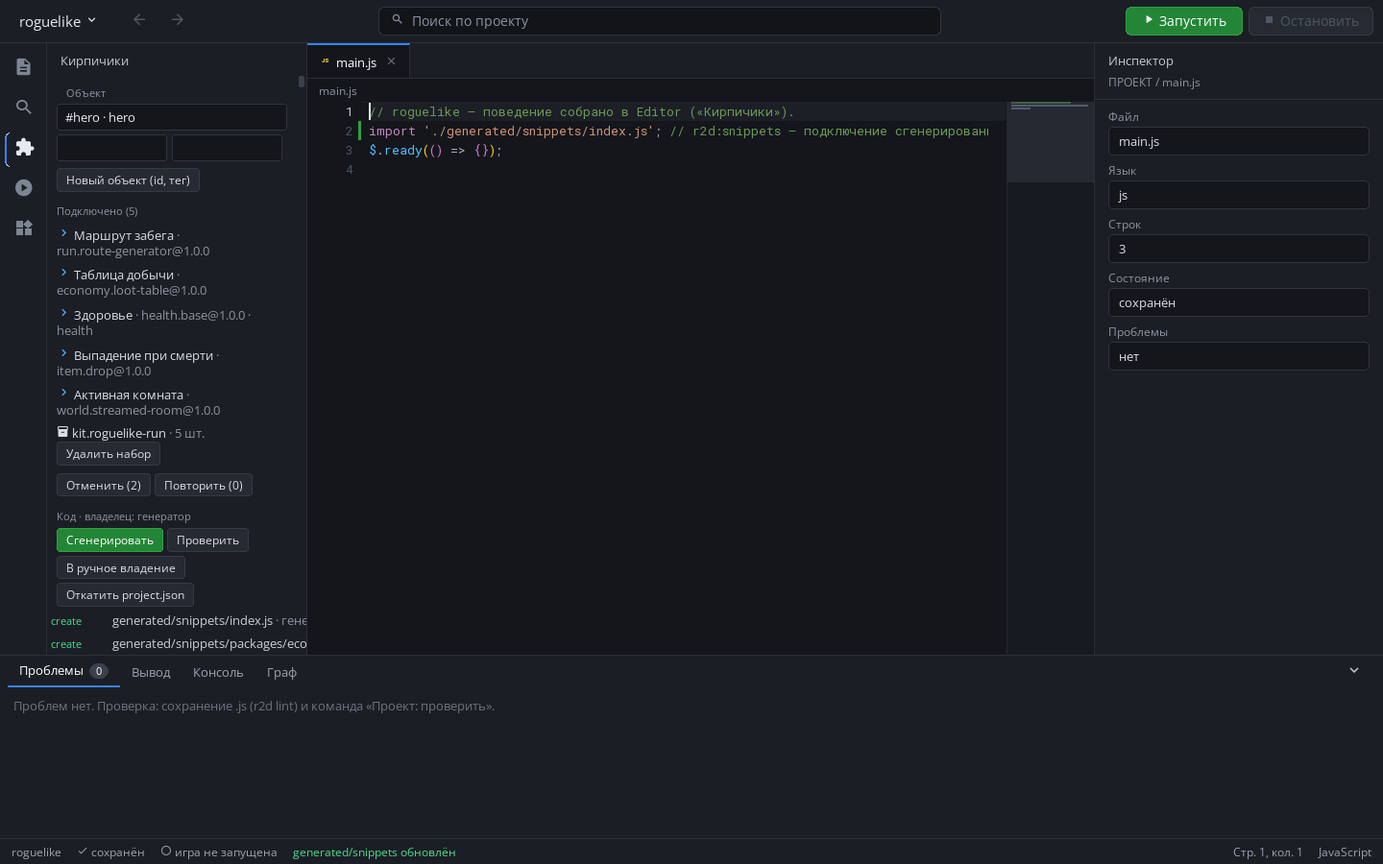
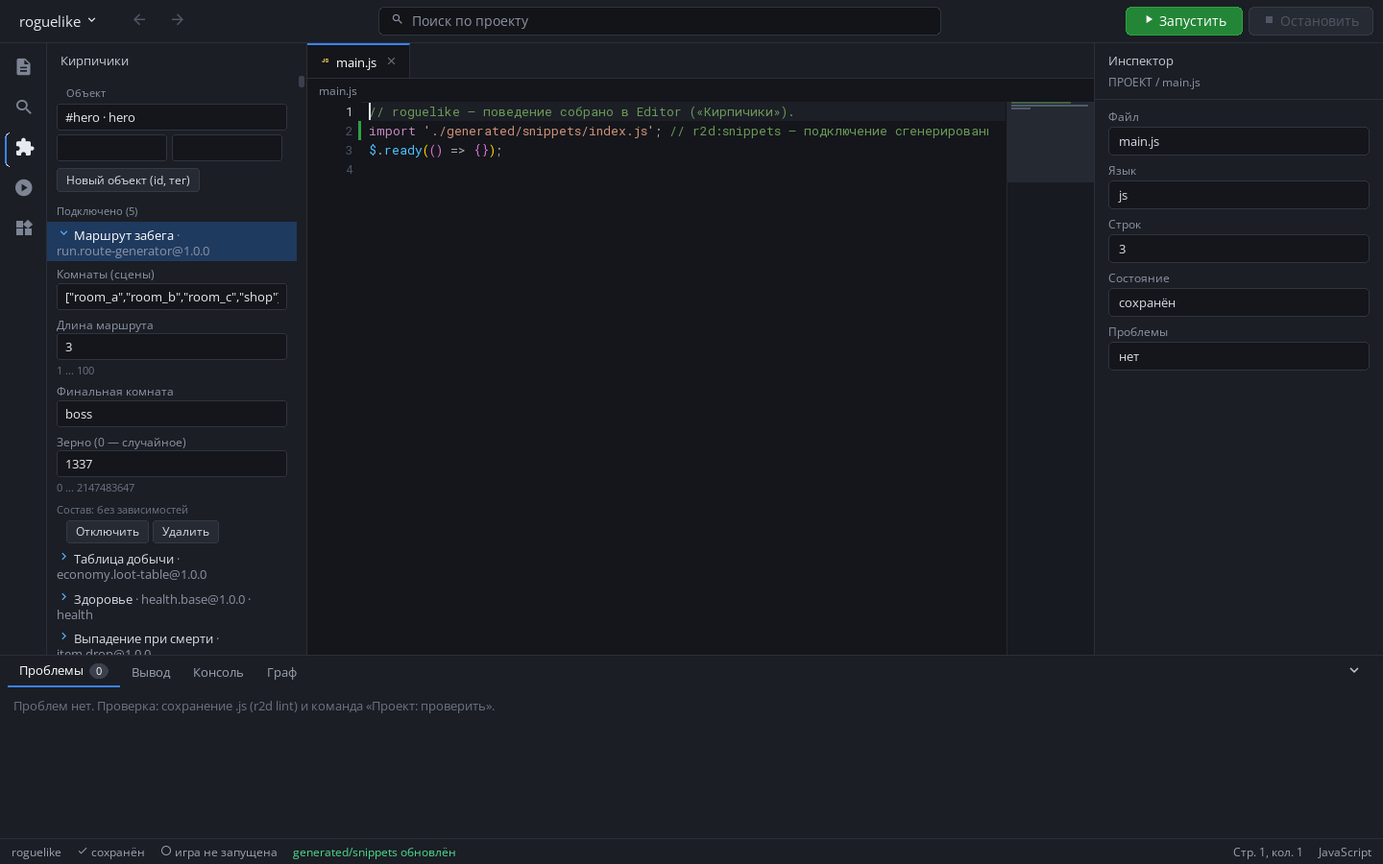
Сниппеты: итоговая приёмка §19, co-op authority и визуальные доказательства

Changed region(s): [[0.0312, 0.2489, 0.2188, 0.7467]]

diff --git a/editor/lib/snippets_panel.js b/editor/lib/snippets_panel.js
@@ -356,7 +356,7 @@ export function createSnippetsPanel($, doc, host) {
             const diff = (st.gen.files || []).find((f) => f.path === st.diff);
             if (diff) {
                 html += '<span class="sn-h">' + esc(diff.path) + '</span><button class="st-btn" data-key="sn:file:' + esc(diff.path) + '">Открыть исходник</button>';
-                if (diff.text !== undefined) html += '<span class="sn-hint">До</span><pre class="sn-diff">' + esc(diff.before || '') + '</pre><span class="sn-hint">После</span><pre class="sn-diff">' + esc(diff.text) + '</pre>';
+                if (diff.text !== undefined) html += '<span class="sn-hint">До</span><pre id="sn-diff-before" class="sn-diff">' + esc(diff.before || '') + '</pre><span class="sn-hint">После</span><pre id="sn-diff-after" class="sn-diff">' + esc(diff.text) + '</pre>';
                 else html += '<span class="sn-hint">Нажмите «Просмотр изменений», чтобы увидеть исходник до применения.</span>';
             }
             if (st.gen.entry_link && !st.gen.entry_link.present)

diff --git a/tests/agent/editor_snippets_test.py b/tests/agent/editor_snippets_test.py
@@ -31,6 +31,17 @@ def check(value, message):
         raise AssertionError(message)
 
 
+def shot(a, name):
+    if '--shots' in sys.argv:
+        if name in ('preview', 'conflict'):
+            side = a.eval("$.ui.doc('ui/editor.rml').rect('side-body')")
+            a.mouse_move(x=side['x'] + side['w']/2, y=side['y'] + side['h']/2)
+            a.wheel(-10); a.step(5)
+        a.screenshot(str(ROOT / 'docs/snippets/images' / ('acceptance-' + name + '.png')))
+        if name in ('preview', 'conflict'):
+            a.wheel(10); a.step(5)
+
+
 def disk(root):
     return json.loads((root / 'project.json').read_text())
 
@@ -68,12 +79,16 @@ def test():
             run(a, E + ".snippets.changed('sn-f-speed')")
             check(disk(root)['editor']['snippets']['instances'][0]['values'].get('speed') == 260, 'speed=260 записан из формы')
             check(a.eval(E + ".state.project.json.editor.snippets.instances[0].values.speed") == 260, 'Editor перечитал project.json')
+            shot(a, 'inspector')
             run(a, E + ".snippets.click('preview')")
             preview = a.eval(E + ".snippets.state.gen.files.find(f => f.path === 'generated/snippets/index.js')")
             check(preview and '"speed": 260' in preview.get('text', ''), 'preview показывает новый JS до записи')
             check(not (root / 'generated/snippets/index.js').exists(), 'preview не пишет файлы')
             run(a, E + ".snippets.click('diff:generated/snippets/index.js')")
             check('До' in a.eval("$.ui.doc('ui/editor.rml').content('side-body')"), 'панель показывает исходник до/после')
+            a.step(5)
+            check(a.eval("$.ui.doc('ui/editor.rml').layoutRect('sn-diff-after').h") > 50, 'preview исходника имеет читаемую высоту')
+            shot(a, 'preview')
             run(a, E + ".snippets.click('generate')")
             check((root / 'generated/snippets/index.js').exists(), 'generated/snippets/index.js создан')
             check('"speed": 260' in (root / 'generated/snippets/index.js').read_text(), 'значение попало в generated JS')
@@ -117,6 +132,7 @@ def test():
             check(manifest['kind'] == 'kit' and manifest['dependencies'] == [{'id': 'game.spin'}], 'набор создан через панель с составом')
             check(a.eval(E + '.activeTab().path') == 'snippets/game.coin-kit/snippet.json', 'для набора открыт manifest')
             check(a.eval(E + ".snippets.state.catalog.some(p => p.id === 'game.coin-kit' && p.valid)"), 'новый kit проверен backend')
+            shot(a, 'authoring')
             # Update preview and migration apply are also available in the panel.
             path = root / 'snippets/game.spin/snippet.json'
             custom = json.loads(path.read_text())
@@ -157,6 +173,7 @@ def test():
             output.write_text(output.read_text() + '\n// external-user-edit\n')
             run(a, E + ".snippets.click('preview')")
             check(any(f['status'] == 'conflict' for f in a.eval(E + '.snippets.state.gen.files')), 'внешняя правка показана как conflict')
+            shot(a, 'conflict')
             run(a, E + ".snippets.click('generate')")
             check('// external-user-edit' in output.read_text(), 'конфликт не перезаписан молча')
             run(a, E + ".snippets.click('overwrite')")

diff --git a/tests/agent/snippets_network_test.py b/tests/agent/snippets_network_test.py
@@ -12,6 +12,7 @@ sys.path.insert(0, str(Path(__file__).resolve().parent))
 from agent_client import Agent
 from snippets_mechanics_test import r2d
 from net_loopback_test import free_port, pump
+from editor_hammer_test import settle, run
 
 
 def main():
@@ -20,8 +21,18 @@ def main():
         (root / 'main.js').write_text('$.ready(() => {});')
         (root / 'project.json').write_text(json.dumps({'schema_version': 2, 'project': {'name': 'Ready', 'version': '1.0.0'}, 'runtime': {'entry': 'main.js'}}))
         assert r2d('project-index', tmp, '--write')['ok']
-        assert r2d('snippet', 'add', tmp, 'net.ready-check', '--owner', 'project')['ok']
-        assert r2d('snippet', 'generate', tmp, '--write')['ok']
+        # Build the same authoritative co-op composition through the real Editor.
+        with Agent(game='editor', scene=tmp, seed=3) as editor:
+            E = '$.editorApp'
+            settle(editor, E + '.state.project!==null && ' + E + '.state.busy===0')
+            editor.eval(E + '.showSnippets();1')
+            settle(editor, E + '.snippets.state.loaded')
+            run(editor, E + ".snippets.createEntity('hero','hero',{body:'none'})")
+            for package in ['health.base', 'kit.project-coop-adventure', 'net.ready-check']:
+                run(editor, E + '.snippets.click(' + json.dumps('add:' + package) + ')')
+            run(editor, E + ".snippets.click('generate')")
+            assert editor.eval(E + '.snippets.state.gen.ok')
+        assert r2d('validate', tmp)['ok']
         port = free_port()
         with Agent(game=tmp, seed=1) as host, Agent(game=tmp, seed=2) as client:
             for a in (host, client):
@@ -36,6 +47,15 @@ def main():
                 if host.eval('$.net.playerCount()') == 2:
                     break
             assert host.eval('$.net.playerCount()') == 2, 'client connects'
+            client.eval("$('#hero').damage(9);1")
+            assert client.eval("$('#hero').hp()") == 100, 'client cannot author health damage'
+            host.eval("$('#hero').damage(11);1")
+            for _ in range(100):
+                pump(host, client)
+                if client.eval("$('#hero').hp()") == 89:
+                    break
+            assert client.eval("$('#hero').hp()") == 89, 'authoritative health replicates to client'
+            assert host.eval("$('player').length") >= 1, 'co-op spawns peer player'
             host.eval("$.emit('ready:toggle');1")
             assert host.eval('starts') == 0, 'unready client blocks start'
             client.eval("$.emit('ready:toggle');1")

diff --git a/docs/SNIPPET_PROGRESS.md b/docs/SNIPPET_PROGRESS.md
@@ -9,12 +9,12 @@
 |---|---|
 | §20.1 baseline (schema 2, `editor.graph`, API schema) | ✅ было до работы |
 | §20.2 матрица 500 ID и API gaps | ✅ `58e89db` ([SNIPPET_MATRIX.md](SNIPPET_MATRIX.md); пробелы — предварительно по пространствам $, уточняются при реализации) |
-| §20.3 контракты: manifest, поля, слоты, ID, `editor.snippets`, ownership, коды SNIP | ✅ `a3200d5` (миграция данных пакетов — 🟡 только `snippet update`) |
-| §20.4 C/$ API | 🟡 `$.updateFor` (`eb84756`), `.damage(…, type)`/`.damageFilter`/`damaged` (`0ecf60a1`), `.flip()` чтение (`038690a1`), фикс `$.camera.isOnScreen` (`451d6721`); пробелы закрываются по мере реализации пакетов |
-| §20.5 native r2d: scan/validate/catalog/diff/transaction/migration/recovery | 🟡 `a3200d5`, `5dd6ff3`, `841a104` (entity/new/own/rollback; миграции значений между версиями пакета — ⬜) |
-| §20.6 Editor: каталог, Inspector, Save/Run | 🟡 `e4b9566`, `5dd6ff3`, `841a104`, `abb4bcbc` (фильтр категорий, многошаговая отмена/повтор) |
+| §20.3 контракты: manifest, поля, слоты, ID, `editor.snippets`, ownership, коды SNIP | ✅ `a3200d5` (миграция данных пакетов — ✅ `snippet update`, native tests и Editor dry-run/apply) |
+| §20.4 C/$ API | ✅ `$.updateFor` (`eb84756`), `.damage(…, type)`/`.damageFilter`/`damaged` (`0ecf60a1`), `.flip()` чтение (`038690a1`), фикс `$.camera.isOnScreen` (`451d6721`); подтверждённые пробелы закрыты; 500 requires разрешены по schema |
+| §20.5 native r2d: scan/validate/catalog/diff/transaction/migration/recovery | ✅ native scan/validate/catalog/generate/update/rollback/restore; миграции проверены |
+| §20.6 Editor: каталог, Inspector, Save/Run | ✅ каталог/Inspector/authoring/preview/update/ownership/undo/redo; реальный RmlUi dogfood |
 | §20.7 500 пакетов | ✅ 500 из 500; §12 нормализован (`e959d519`): 19 дублей → недостающие механики (`78788f54`); пробелов «вне каталога» нет |
-| §20.8–11 dogfood, полный прогон, доки со скриншотами, DoD | ⬜ |
+| §20.8–11 dogfood, полный прогон, доки со скриншотами, DoD | ✅ snippet suites; ⚠ известный внешний api_docs_test, подробная приёмка — [SNIPPET_ACCEPTANCE.md](SNIPPET_ACCEPTANCE.md) |
 
 ## Сделано (коммиты)
 
@@ -64,11 +64,11 @@
 
 ### C/$ API и архитектура
 - [x] API gap matrix на 500 пакетов (предварительная; уточняется по мере реализации)
-- [ ] прочие подтверждённые API-изменения
-- [x] удаление узла снимает подписки `$.updateFor` и привязки generated (смена сцены — покрыта через удаление узлов; отдельный тест ⬜)
+- [x] прочие подтверждённые API-изменения; незакрытых requires/schema gaps нет
+- [x] удаление узла снимает подписки `$.updateFor` и привязки generated (отдельный тест смены сцены и respawn — ✅ snippets_sections_test.py)
 - [x] пакеты не обращаются к `engine.*` (SNIP101)
 - [x] без ECS/второго графа/event bus
-- [ ] multiplayer-пакеты на `$.net`
+- [x] multiplayer-пакеты на `$.net`; Editor co-op project → два peers, authority/health replication, readiness/disconnect
 - [x] performance pass с замером (`26ca907f`; в C не нужно)
 
 ### Надёжность и проекты
@@ -77,7 +77,7 @@
 - [x] rollback project.json (`snippet rollback`), recovery ручной версии generated (`*.r2d-user`)
 - [x] детерминизм; конфликт ручной правки не перезаписывается молча
 - [x] одни коды SNIP в CLI/Editor/агенте
-- [ ] dogfood UX (focus, resize; undo/redo в панели — ✅ `abb4bcbc`)
+- [x] dogfood UX: реальный focus/text/Tab/resize/scroll, undo/redo, conflict/recovery, reopen — ✅
 - [x] жанровые проекты целиком через Editor (`65304d95`)
 - [x] Build: generated и только использованные пакеты в поставке
 - [x] документация со скриншотами `docs/snippets/images/`
@@ -87,18 +87,25 @@
 - `tests/js/api_docs_test.mjs` падает: незакоммиченный `scripts/generate_api_docs_catalog.py` кладёт в каталог `engine.*`.
 - В коммиты `eb84756`/`a3200d5` попали уже лежавшие незакоммиченными правки `api.schema.json`, `russiano2d.d.ts`, `sdk_validate.c` (runtime.multiplayer) и `sdk_project_graph.c`.
 
-## Следующие шаги
+## Итог и повторение
 
-1. Кэш цели по селектору в остальных 81 пакете (как в `ai.chase`).
-2. Функциональные тесты остальных разделов (сейчас: все 500 — runtime-смоук; функционально — оружие, зоны, подбор, урон, 19 механик, 7 жанров).
-3. Финальная приёмка по §19 (dogfood UX: focus/resize).
+Полный список **29 пунктов §19** со статусом и доказательством —
+[SNIPPET_ACCEPTANCE.md](SNIPPET_ACCEPTANCE.md): 28 подтверждены, один содержит
+известное внешнее исключение (`api_docs_test.mjs`). Новых отложенных функций
+сниппетов не оставлено. Чужие незакоммиченные изменения сохранены.
 
-## С чего продолжать
+```sh
+xmake build -y -j 8 r2d
+export R2D_BINARY="$PWD/build/macosx/arm64/release/r2d"
+xmake test snippets_tests/catalog
+xmake test snippets_regression_tests/contracts
+python3 scripts/snippet_matrix.py --check
+python3 scripts/api_docs_pipeline.py check
+```
 
-- Ветка `snippets-system`, всё закоммичено. Сборка: `xmake build -y -j 8 r2d`; бинарник `build-xmake/macos-arm64/macosx/arm64/release/r2d` (тесты берут его через `R2D_BINARY`).
-- Проверка каталога: `r2d snippet catalog --strict` (500/500), `python3 tests/agent/snippets_catalog_test.py` (~3 мин, все 500 в runtime).
-- Генераторы пакетов были одноразовыми скриптами вне репо: правьте пакеты прямо в `snippets/<id>/`, затем `python3 scripts/snippet_matrix.py`.
-- Остаток для §19: (1) кэш цели по селектору в 81 пакете — образец `snippets/ai.chase/src/behavior.js`; (2) функциональные тесты по разделам (образцы: `tests/agent/snippets_mechanics_test.py`, `snippets_combat_test.py`); (3) dogfood UX панели (focus/resize) и финальная сверка чек-листа выше.
+Обе xmake test targets получают фактический путь текущего r2d сами. Путь Python
+выше относится к локальной конфигурации этой приёмки. Main не переключался,
+push не выполнялся. Ниже сохранена история шагов с результатами проверок.
 
 ## Приёмка 2026-10-21 — продолжение
 
@@ -204,3 +211,30 @@
 changelog в README. Это делает исправления явными для pinned проектов через
 `snippet update`/Editor dry-run; схемы полей совместимы, миграция значений не
 требуется. Матрица версий обновлена. Неизменённые пакеты не переверсионированы.
+
+## Итоговая фиксация приёмки
+
+- Полный повторный каталог через xmake после функциональных исправлений:
+  **PASS, 500/500, 99.089 с**. После patch version bump отдельно повторены
+  strict catalog и актуальность matrix — PASS.
+- Общий snippet regression через xmake, включая семь жанров с lint/validate/
+  Build: **PASS, 61.167 с**. После усиления кооперативного fixture отдельно
+  подтверждён PASS проекта `kit.project-coop-adventure`, собранного через
+  настоящий Editor: два peers, spawn, запрет клиентского урона, hp от хоста
+  реплицируется клиенту, readiness/start и cleanup disconnect.
+- Genre fixtures повторены с `--shots`: **PASS**, все семь проектов. Снимки
+  текущего Editor/runtime обновлены; никаких макетов.
+- Полный QuickJS regression: **130/131 PASS**; единственный failure — известный
+  `tests/js/api_docs_test.mjs`. Canonical `api_docs_pipeline.py check` — PASS.
+- Требуемые doc_claims/doc_coverage/api_docs_sync — PASS, 4111 имён покрыто.
+- Полная приёмка по каждому пункту — [SNIPPET_ACCEPTANCE.md](SNIPPET_ACCEPTANCE.md).
+  **28 ✅ / 1 ⚠**, исключение относится к общему внешнему regression; поэтому
+  весь §19 безусловно зелёным не объявлен. Исходное ТЗ не переписано под результат.
+- Работа выполнена в `snippets-system`; main не переключался; чужие исходники не редактировались и не
+  включались в коммиты; push не выполнялся. Новых отложенных функций сниппетов не оставлено.
+
+- Финальная визуальная проверка preview нашла незагруженный CSS font-family
+  `monospace`: исходник занимал пустую строку. Заменён на штатный Roboto Mono;
+  добавлен regression на высоту видимого исходника. Финальный Editor run:
+  **50 checks PASS**, четыре дополнительных реальных screenshot (Inspector,
+  preview с читаемым кодом, authoring, conflict). QuickJS parser test PASS.

diff --git a/docs/SNIPPET_ACCEPTANCE.md b/docs/SNIPPET_ACCEPTANCE.md
@@ -1,0 +1,67 @@
+# Приёмка системы сниппетов — §19
+
+2026-10-21, ветка `snippets-system`. Изменения: `f207821a`, `441a1e7a`,
+`206831bb`, `e357eea8`, `806b3d45`, `88c70d40`.
+
+**28 пунктов подтверждены; 1 пункт имеет известное внешнее исключение.**
+Формально весь §19 не объявляется полностью зелёным: общий JS regression содержит
+оговорённое владельцем падение `api_docs_test.mjs`. Посторонние изменения не исправлялись.
+
+| № | Пункт §19 | Статус | Доказательство |
+|---|---|---|---|
+| 1 | В Editor доступны ровно 500 уникальных встроенных package IDs. | ✅ | catalog strict + Editor catalog count; 500 unique IDs |
+| 2 | Каждый имеет manifest, Inspector schema, JS source, dependencies, example, docs и passing package test. | ✅ | 500 package fixtures, 420 sources, 9210 field cases; kits are dependency-only |
+| 3 | Все kits раскрываются до полного набора пакетов; нет заглушек и дублированных runtime-сущностей. | ✅ | all kits generated in catalog suite, dependencies/slots checked by native backend |
+| 4 | Русский поиск и фильтры проверены на полном каталоге. | ✅ | editor_snippets_ux_test + category filter in editor_snippets_test |
+| 5 | Behavior и kit создаются и проверяются через Editor package authoring. | ✅ | Editor behavior/kit authoring and backend validation (50 checks) |
+| 6 | Player, NPC, weapon, pickup, trigger и kit создаются командами Editor. | ✅ | Editor genre projects + generic entity/add backend; NPC enemy and weapon kits exercised |
+| 7 | Inspector настраивает параметры, ресурсы, анимацию, звук, slots и dependencies. | ✅ | Inspector fields/assets/slots/dependency composition; visibleIf and native invalid values |
+| 8 | Ни один обязательный сценарий не требует вручную хардкодить поведение в main.js. | ✅ | 7 genre compositions generated through Editor; no authored gameplay in main.js |
+| 9 | Generated JS видим, читаем, проходит lint и запускается настоящим runtime. | ✅ | catalog lint authored/generated, validate and actual runtime |
+| 10 | Передача в ручное владение сохраняет результат и показывает владельца каждого файла. | ✅ | Editor own code/generator, unchanged bytes, file owner display |
+| 11 | Заполнена API gap matrix для каждого из 500 пакетов. | ✅ | matrix.json: all 500 rows, version/scenario/source/API/runtime/compatibility/checks |
+| 12 | Все подтверждённые общие возможности реализованы в C и/или публичном $ API. | ✅ | updateFor, typed damage, flip, camera fixes; no unresolved schema symbols |
+| 13 | Schema, typings, generated docs, examples и API tests синхронны. | ✅ | doc_claims, doc_coverage, api_docs_sync, canonical api_docs_pipeline check PASS |
+| 14 | Удаление узла/смена сцены не оставляют callbacks, timers и subscriptions. | ✅ | removal/respawn/scene reattach assertions plus full catalog cleanup |
+| 15 | Игровые пакеты не обращаются к engine.* или внутреннему native API. | ✅ | native SNIP101/102/103/104 checks and source lint |
+| 16 | Нет ECS, второго scene graph, нового event bus, loader, physics/audio abstraction или UI toolkit. | ✅ | ordinary $ nodes; last world-UI portrait/veil replaced with RmlUi/native transition |
+| 17 | Multiplayer использует высокоуровневый $.net. | ✅ | net.ready-check real ENet host/client + replication, no low-level access |
+| 18 | Native performance pass оправдан измерением и regression. | ✅ | Apple M4 benchmark 500/2000; no native behavior move justified |
+| 19 | project.json открывается, сохраняется и мигрирует без потери неизвестных полей. | ✅ | snippets_test and sdk_snippet_migration_test, unknown fields/backup/restore |
+| 20 | Package locks закреплены; update показывает diff и поддерживает rollback. | ✅ | pinned versions, native update dry-run/apply in Editor, rollback |
+| 21 | Повторная генерация детерминирована; generated/user conflict никогда не переписывается молча. | ✅ | byte determinism and external conflict/recovery assertions |
+| 22 | Диагностика со стабильными кодами совпадает в Editor, CLI и agent. | ✅ | Editor calls the same native snippet commands and renders SNIP locations |
+| 23 | Focus, resize, scroll, undo/redo, save/reopen, conflict и recovery прошли dogfood. | ✅ | real RmlUi key/text/wheel, two sizes, 50 Editor assertions, screenshots |
+| 24 | Старые проекты и API regression suites работают либо имеют проверенную миграцию. | ⚠ известное внешнее исключение | canonical sync and snippet migration PASS; full QuickJS suite has known external api_docs_test failure |
+| 25 | Через Editor полностью создаются и запускаются Platformer, Witch, top-down action, VN с выборами/концовками, JRPG battle, roguelike run и authoritative co-op. | ✅ | 7 Editor projects: controls, VN choice/ending/save, JRPG turn/damage, seeded run; same co-op kit built through Editor; real host/client authority, spawn and hp replication |
+| 26 | xmake, r2d lint, validate, tests и Build проходят на проектах-примерах. | ✅ | xmake catalog/regression targets; lint/validate/Build on all 7 genre projects |
+| 27 | Один бинарник r2d включает игру, Editor, CLI и backend; второй SDK не требуется. | ✅ | single xmake r2d: Editor, game, CLI and native backend used in acceptance |
+| 28 | Документация и реальные screenshots соответствуют реализации. | ✅ | SNIPPETS.md, matrix, progress, benchmark JSON and actual Editor/runtime screenshots |
+| 29 | Нет невыполненных функций, открытых API gaps или отложенного «добавить в следующей версии». | ✅ | no deferred snippet/API gaps found in this acceptance; external exception recorded in row 24 |
+
+## Повторение
+
+```sh
+xmake build -y -j 8 r2d
+export R2D_BINARY="$PWD/build/macosx/arm64/release/r2d"
+xmake test snippets_tests/catalog
+xmake test snippets_regression_tests/contracts
+xmake test js_tests/js # known api_docs_test.mjs failure
+python3 scripts/api_docs_pipeline.py check
+python3 scripts/snippet_matrix.py --check
+```
+
+Путь binary берётся из текущей xmake-конфигурации; обе snippet test targets сами
+используют targetfile(), без обращения к старому build/r2d. Локальный OpenSSL 3
+linker override и условия замера записаны в SNIPPET_PROGRESS.md и benchmarks/snippets.md.
+
+## Границы доказательств
+
+Каждый пакет прошёл schema/API/resource/lint/runtime checks; семантические assertions
+проверяют разделы и жанровые композиции. Это не обещание отсутствия любых будущих
+игровых ошибок. Скриншот или отсутствие runtime error сами по себе не подменяют
+функциональную проверку: VN/JRPG и сетевой ready-check были исправлены именно после
+новых assertions. Полный набор всех старых игр вручную не переигрывался.
+
+Проверки выполнены в рабочем дереве с исходными посторонними изменениями. Их
+влияние нельзя приписывать коммитам сниппетов; известное исключение оставлено явно.
